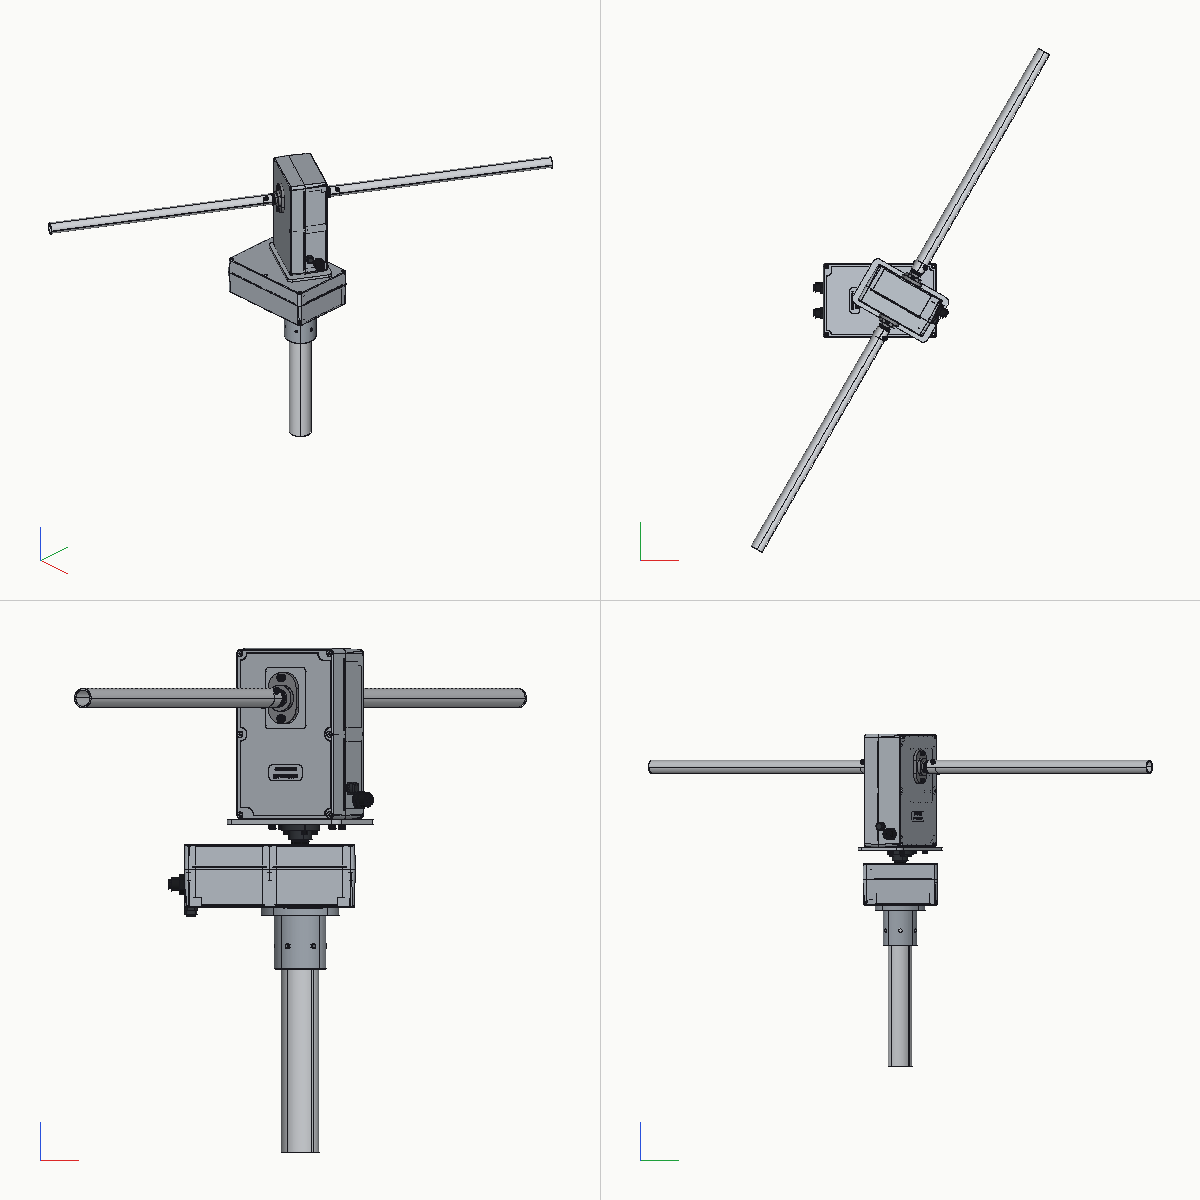
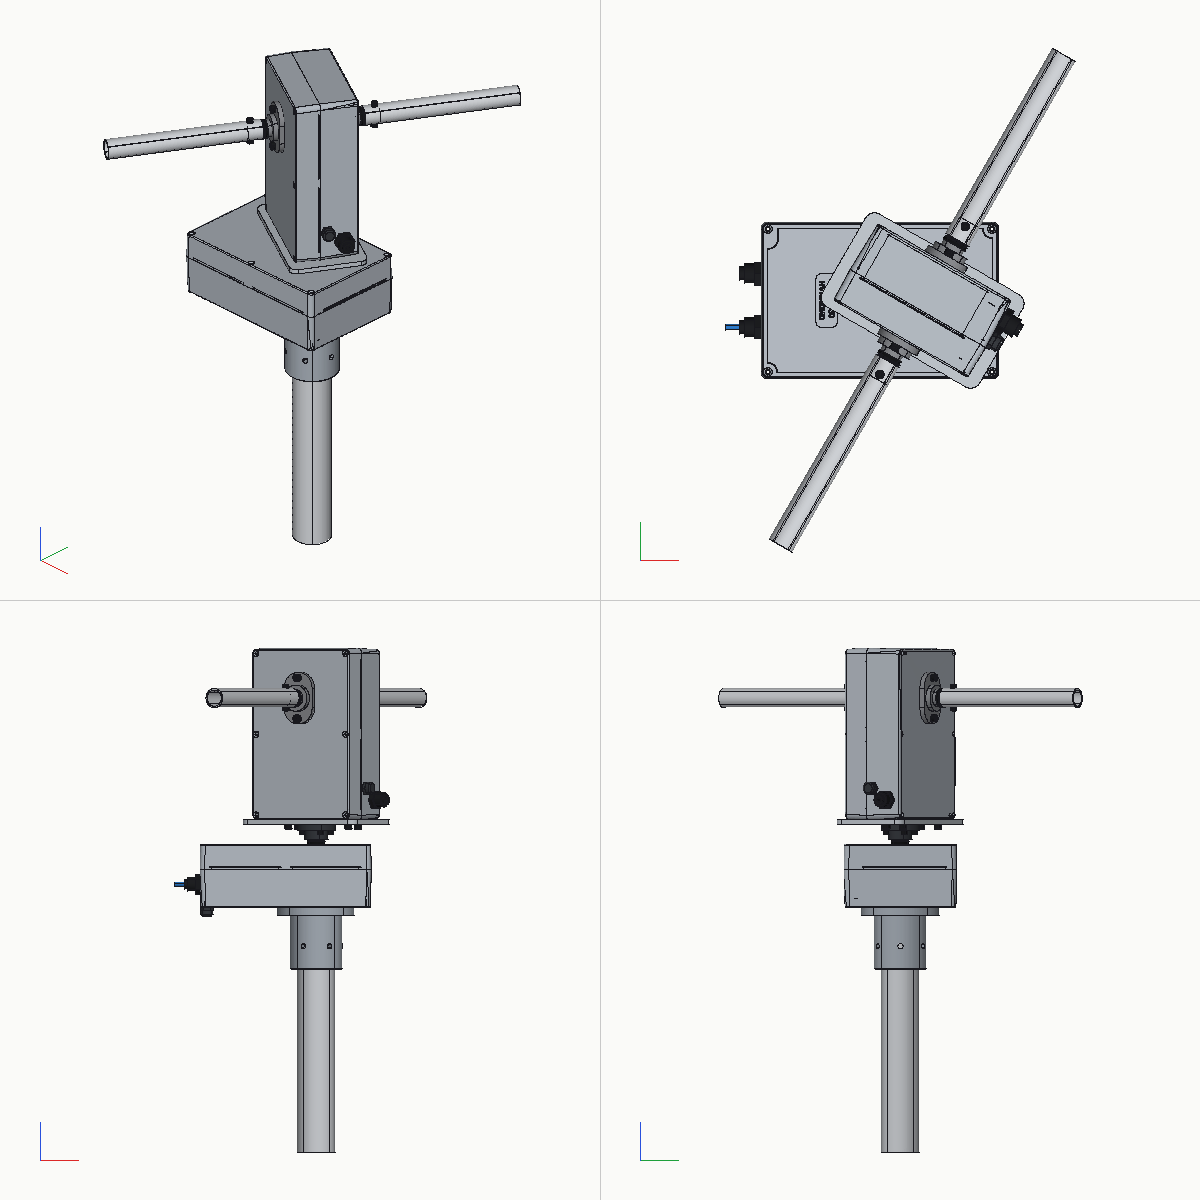
Fit the control board in the az box

diff --git a/BOM.md b/BOM.md
@@ -57,7 +57,11 @@ the UK adds Irish import VAT and a carrier handling fee.
 | 3 | Standoff M6 x 65, male-female, 10 mm hex | [Vital Parts HMF-M6-65](https://www.vital-parts.co.uk/threaded-hex-standoffs-male-female/11836-hmf-m6-65-s10-a1) |
 | 2 | Aluminium tube 25 x 2, 500 mm (crossboom) | [Aluminium Online](https://www.aluminium-online.co.uk/product/25mm-x-2mm-aluminium-round-tube-2/) |
 | 1 | EPDM sheet 1 mm, for the gaskets under the el bearing units | Amazon, Delta Rubber |
-| | A4 screws: M3x10 (8), M4x10 (8), M5x12 (4), M5x30 (2), M6x10 (2), M6x12 (2), M6x12 countersunk (3), M6x16 (8), M6x20 (4); nuts M6 (8), M5 nyloc (2); bonded seal washers M6 (8) | [Accu](https://www.accu.co.uk) |
+| 4 | Hex standoff M3 x 12, male-female, 5.5 mm, aluminium (control board) | [Accu](https://www.accu.co.uk) |
+| 1 | Takachi CR123A-R battery holder with 140 mm leads, plus a JST PHR-2 housing and 2 SPH crimps | Conrad, item 1882324 |
+| 1 | CR123A lithium cell | any |
+| 1 | RJ45 plug for the PoE cable, crimped inside the box after the cable is through the gland | any |
+| | A4 screws: M3x6 (4), M3x6 countersunk (2), M3x10 (8), M4x10 (8), M5x12 (4), M5x30 (2), M6x10 (2), M6x12 (2), M6x12 countersunk (3), M6x16 (8), M6x20 (4); nuts M6 (8), M5 nyloc (2); bonded seal washers M6 (8) | [Accu](https://www.accu.co.uk) |
 
 ## Totals in EUR with 23% VAT
 
@@ -70,10 +74,13 @@ GBP converted at 1.1805 (mid-market, 9 Oct 2026). Shipping not included.
 | R.A. Rodriguez (£92.56) | €109.27 | €134.40 |
 | StepperOnline (£33.88) | €40.00 | €49.20 |
 | Goodwins, 25 mm tube x 1 m | €8.90 | €10.95 |
-| **priced parts** | **€363.90** | **€447.59** |
+| Control board parts, Mouser (`board/tools/bom.md`) | €65.97 | €81.14 |
+| **priced parts** | **€429.87** | **€528.73** |
 
-The unpriced rows (turret collar, standoffs, screws, gasket sheet) are an estimate of
-about €70 with VAT, which brings the bought parts to roughly **€520**. The made parts in
+The unpriced rows (turret collar, standoffs, screws, gasket sheet, battery holder) are an
+estimate of about €85 with VAT, which brings the bought parts to roughly **€615**. The control
+board PCB itself (4 layers, ENIG, JLCPCB) and its assembly are not priced yet, and its
+STM32H563RIT6 is on backorder (Mouser expects stock on 11 Dec 2026). The made parts in
 `QUOTE.md` (plates, shafts, mast clamp, drive blocks, gear reboring) still need quotes.
 
 ## Other Irish suppliers

diff --git a/README.md b/README.md
@@ -31,11 +31,21 @@ gcad export rotator.gasm rotator.step
 - Each axis: KHK CG1-60R1 wheel on a keyed shaft, KHK SW1-R1 worm on an 8 mm shaft in two
   608s in `driveblock.gcad`, jaw-coupled to a StepperOnline 17HS15-1504-ME1K closed-loop
   NEMA17 with a built-in 1000 PPR magnetic encoder. Turn counting and its battery backup
-  live on the driver board.
+  live on the control board.
 - The boxes are `parts/std/hammond_1550z220_box.gcad` and `_lid.gcad`. Without
   Hammond's STEP they are drawn from its measurements. Download the STEP from
   https://www.hammfg.com/part/1550Z220, save it as `parts/vendor/1550Z220.stp`, and run
   with `--set hammond=1` to drill the real boxes; `./export.sh` uses it when present.
+
+## Control board
+
+`board/` is the controller in the az box: one PoE cable in, both motors and encoders out. An
+STM32H563 with a LAN8720A PHY, two TMC2209 drivers on UART, a Silvertel Ag5424 PoE module, and
+a CR123A cell that keeps the encoder counters alive through a power cut. It sits on four
+aluminium M3 standoffs on the chassis plate, which also carry its heat away. See
+`board/DESIGN.md`.
+
+![Control board](docs/board.png)
 
 ## Sealing
 
